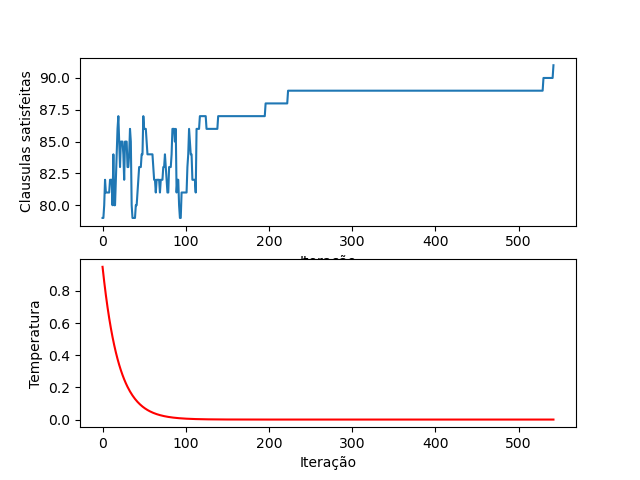
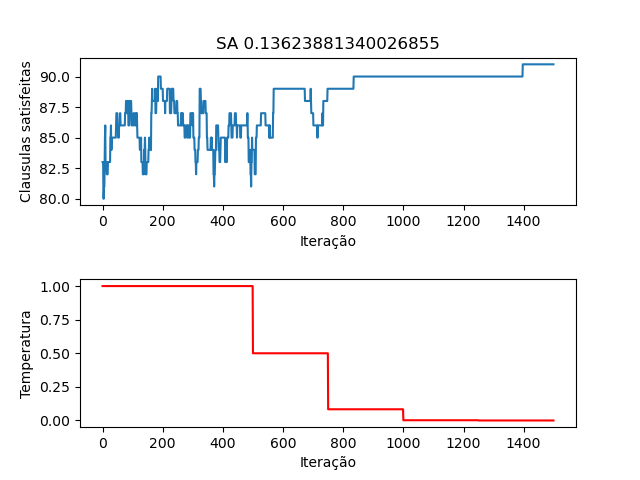
cooling schedule not working properly :s

diff --git a/simulated_annealing.py b/simulated_annealing.py
@@ -27,11 +27,11 @@ class Annealing:
             return np.exp((new_score - score) / (temp))
 
     # Cooling Schedule 4
-    # def calc_temp(self, it : int):
-    #     A = ((self.temp - self.temp_min) * (self.max_iterations + 1)) / self.max_iterations
-    #     B = self.temp - A
-    #     T = (A / (it + 1)) + B
-    #     return T
+    def calc_temp(self, it : int):
+        A = ((self.temp - self.temp_min) * (self.max_iterations + 1)) / self.max_iterations
+        B = self.temp - A
+        T = (A / (it + 1)) + B
+        return T
 
     # Cooling Schedule 1
     # def calc_temp(self, it : int):
@@ -50,12 +50,12 @@ class Annealing:
                 else:
                     calc_prob = self.acceptance_probability(self.score, new_score, self.temp)
                     print(self.score, new_score, self.temp, calc_prob, sep=";")
-                    if random.randint(0,1) < calc_prob:
+                    if random.uniform(0,1) < calc_prob:
                         self.score = new_score
                         self.sat.initial_solution = new_solution
                     self.acceptance_probability_list.append(calc_prob)
                 i += 1
-            self.temp =  self.temp * 0.95
+            self.temp =  self.temp * self.calc_temp(iterations)
             self.temp_list = np.append(self.temp_list, self.temp)
             self.score_list = np.append(self.score_list, self.score) # Salva uma lista de iterações e num de clausulas não satistifeitas
             iterations += 1

diff --git a/main.py b/main.py
@@ -9,22 +9,23 @@ if __name__ == "__main__":
 
     files = ["uf20-01.cnf", "uf100-01.cnf", "uf250-01.cnf"]
 
-    sat = ThreeSAT("./cases/" + files[0])
+    sat = ThreeSAT("./cases/" + files[2])
 
     start_time = time()
     testing_sa = Annealing(sat=sat, max_iterations=250000, temp=1, temp_min=0.000001)
     testing_sa.run()
-    figure, axis = plt.subplots(2, 1) 
+    figure, axis = plt.subplots(2, 1)
+    plt.subplots_adjust(hspace=0.5)
 
     axis[0].plot(testing_sa.score_list) 
     axis[0].set_xlabel("Iteração")
     axis[0].set_ylabel("Clausulas satisfeitas") 
+    axis[0].set_title("SA " + str(time() - start_time))
 
     axis[1].plot(testing_sa.temp_list, color='red') 
     axis[1].set_xlabel("Iteração")
     axis[1].set_ylabel("Temperatura")
-
-    plt.savefig('./rs/' + files[0] + '_exec001.png')
+    plt.savefig('./rs/' + files[2] + '_exec001.png')
 
     # axis[2].scatter(testing_sa.acceptance_probability_list[:],testing_sa.acceptance_probability_list, color='blue') 
     # axis[2].set_title("Probabilidade de aceitação") 
